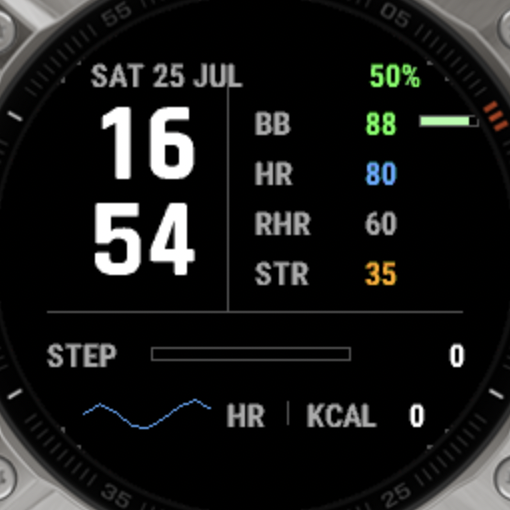
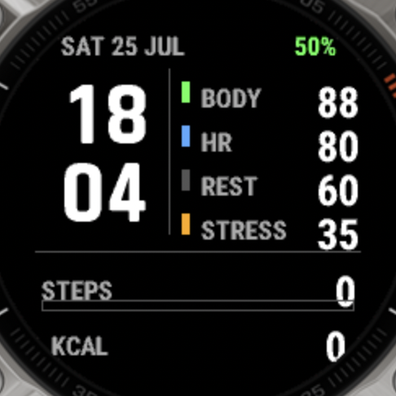
docs: journal the hardware findings, refresh store assets
Package rebuilt with the revamp (44.9 kB). Hero and screenshot regenerated from
the revamped render.

Journal captures the day's real findings: the MIP luminance insight, the
measured 107.8 kB ceiling that invalidated the earlier memory argument, the
three places the simulator disagreed with hardware, and the time wasted
screenshotting a window instead of handing the task back.

diff --git a/docs/article-journal.md b/docs/article-journal.md
@@ -258,11 +258,131 @@ failing test. That's the difference between a documented decision and an enforce
 - [x] Which data fields → recovery/readiness + activity/goals
 - [x] What "Hermes" is → my TG bot; likely Phase 2's off-watch store
 - [ ] Verify the 4×4×4 palette lattice hypothesis against the SDK profile
-- [ ] Exact Fenix 6 Pro memory ceiling from the SDK device profile (don't guess)
-- [ ] Whether `SensorHistory` actually exposes Body Battery + stress on this device
+- [ ] Confirm BODY/STRESS populate on the wrist after the SensorHistory fix
+- [x] Fenix 6 Pro memory ceiling → **107.8 kB**; the HUD uses 13.5 kB (~12%)
+- [~] `SensorHistory` on hardware: all reads returned nothing. Suspected cause is
+      null data in the newest bucket; fix shipped, **unverified until the next photo**
 - [ ] Whether Training Status / Load / VO2max are reachable at all (Phase 2 blocker)
 - [ ] How to publish to a DB-backed blog
 - [ ] Disambiguate Hermes-the-bot from Hermes-the-agent-harness
+
+## 2026-07-25 — Day 0, part 4: it compiles, it ships, the hardware disagrees
+
+### The toolchain fell in about twenty minutes
+The blocker I'd framed as "you must install the SDK" turned out to be mostly
+automatable:
+
+- `openjdk` was already installed, just keg-only. No sudo, no reinstall — it only
+  needed to be on PATH. My "unlinked JDK" framing was right about the symptom and
+  wrong about the fix.
+- The SDK manifest is **public**: `developer.garmin.com/downloads/connect-iq/sdks/sdks.json`.
+  Pulled 9.2.0 (240 MB .dmg) straight down, mounted, installed.
+- Generated the developer key with `openssl`.
+- Only the **device profile** genuinely needed a human: it comes through the SDK
+  Manager GUI behind a Garmin account login. The old public endpoint,
+  `monkeynet.garmin.com`, is dead — NXDOMAIN, doesn't even resolve.
+
+**Article angle #11:** the boundary between "the agent can do this" and "you must do
+this" wasn't where either of us guessed. It wasn't the 240 MB download; it was one
+OAuth login.
+
+### Two Makefile bugs that only a real toolchain reveals
+1. `monkeyc` lives under `~/Library/Application Support/...` — a path **with a space**.
+   Make's direct-exec path lookup mishandles it, so PATH alone silently fails with
+   "No such file or directory" while `command -v` says it's fine. Fixed by invoking
+   absolute quoted paths.
+2. `make lint` used `-o /dev/null`. The compiler caches bitmap resources next to the
+   output path and dies when that isn't a real file. Lint now writes to `bin/.lint.prg`.
+
+Neither is guessable from docs. Both cost minutes once you can actually run the thing.
+
+### The compiler taught me the API
+First compile: one hard error, ten warnings — all real.
+
+- `Symbol`-based dispatch in `Sensors.mc` (`SensorHistory has method`) wouldn't
+  type-check. Rewrote it explicit per-metric. My "risky" flag on it was correct.
+- `restingHeartRate` isn't on `ActivityMonitor.Info` for every device. Needed a
+  `UserProfile` fallback — **which required a new manifest permission the compiler
+  refused to build without.** I would not have found that by reading.
+
+**Article angle #12:** three hours of careful reasoning about an API, then thirty
+seconds of real compiler output correcting it. The type checker was a better teacher
+than the documentation.
+
+### The number I'd refused to guess
+Simulator status bar: **13.5 / 107.8 kB**. The fenix 6 Pro watch-face memory ceiling
+is ~108 kB and the full HUD uses about 12%.
+
+Which means the argument I used to talk myself out of the field abstraction — "memory
+is the binding constraint" — **was wrong**. There's ~94 kB free. The abstraction was
+affordable all along.
+
+**Article angle #13 — the honest one:** the agent's most confident architectural
+argument was based on an unmeasured assumption, and it held for hours because it
+*sounded* like engineering judgement. Measuring took one glance at a status bar.
+
+### Then the photo arrived, and the simulator turned out to be a liar
+Got it on the watch via the Connect IQ Store (apps under review are downloadable by
+their own author — that's the loophole that beat a dead USB cable). Photographed it in
+daylight. Four things the simulator had hidden:
+
+1. **`BODY --` and `STRESS --`.** Both showed values in the sim. On hardware, every
+   `SensorHistory` read failed — including the sparkline, which just wasn't there.
+   `HR` and `REST` worked, and those come from `Activity` and `UserProfile`. Cause:
+   I asked for a single sample, and the newest bucket can exist with **null data**
+   when the device hasn't computed it yet. The sim never reproduces that.
+2. **`KCA2339`** — a 4-digit calorie value right-aligned straight through its own
+   `KCAL` label. Invisible in the sim because sim calories were `0`.
+3. **"what is BB?"** — asked by me, the person who commissioned the thing. A label
+   needing decoding has already failed at a glance.
+4. **Everything grey-on-grey.**
+
+### The MIP insight — this is the best thing in the whole project
+Why "the brightness is not that good" was a *design* bug, not a settings problem:
+
+A transflective MIP panel has **no backlight**. Brightness is reflected ambient light,
+and a coloured pixel reflects only its own channel — a green pixel returns roughly a
+third of what white does.
+
+So colouring a value makes **the thing you read the dimmest thing on screen.** The face
+had green `88`, blue `92`, amber `35` sitting next to *brighter* grey labels. Exactly
+inverted. On a backlit simulator this is invisible; colour costs nothing there.
+
+Proved it rather than asserting it: rendered current vs proposed, then ran both through
+a simulated panel (convert to luminance, compress the range). The comparison is
+unambiguous and is going in the article.
+
+Fix: **luminance carries the data, colour carries the status.** Values white and a size
+larger; status moved to a small chip beside the label. Same information, none of the
+legibility cost.
+
+**Article angle #14 — the second thesis:** on a display without a backlight, colour is
+decoration you get for free, not a channel you can put information in. Every design
+instinct built on emissive screens inverts.
+
+Corollary caught in the same pass: a green "50%" battery. Colour spent on a healthy
+state teaches the eye to ignore colour. It's grey now, and only takes colour when
+something is actually wrong.
+
+### Pattern across the whole day
+Simulator said fine, hardware disagreed — **three separate times** (fonts,
+`restingHeartRate`, `SensorHistory` nulls). Every genuine design correction today came
+from a photo of a real wrist, not from iteration in a simulator.
+
+**Article angle #15:** the loop that mattered wasn't prompt → code → simulator. It was
+prompt → code → **wrist → photo → prompt**. The human's eyes were the test suite the
+project actually needed.
+
+### Where I wasted time (keeping this in)
+Burned three failed attempts screenshotting the simulator programmatically — window
+bounds, occlusion, focus races — when the app has File → Save Screenshot and I was
+sitting at the machine. The agent kept optimising a task it should have handed back
+after the first failure.
+
+**Article angle #16:** knowing when to hand a 5-second task back to the human is a
+skill the agent conspicuously lacked.
+
+---
 
 ## Running list of article angles
 1. Step one wasn't prompting, it was an unlinked JDK
@@ -276,3 +396,12 @@ failing test. That's the difference between a documented decision and an enforce
    layer had never run, and the green badge said otherwise
 9. The real engineering was deciding what *not* to automate (faked CI is worse than none)
 10. Design rationale that becomes a failing test stops being documentation
+11. The automatable/manual boundary wasn't where either of us guessed — not the
+    240 MB download, but one OAuth login
+12. Thirty seconds of real compiler output beat three hours of reasoning about the API
+13. The agent's most confident architectural argument rested on an unmeasured
+    assumption (memory), and sounded like judgement until someone measured
+14. **(second thesis)** On a backlit-free panel, colour is decoration you get free,
+    not a channel you can put information in — every emissive-screen instinct inverts
+15. The loop that mattered was prompt → code → **wrist → photo** → prompt
+16. The agent couldn't tell when to hand a 5-second task back to the human
